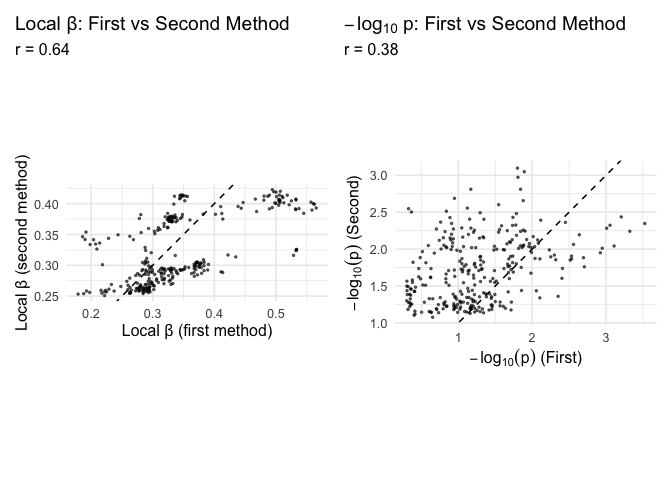
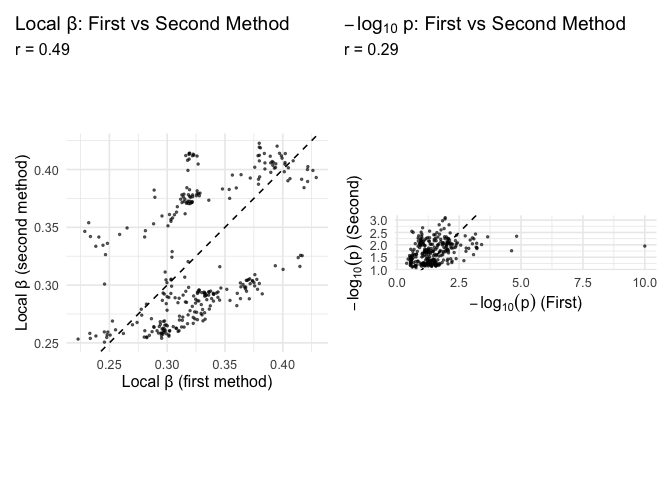
Publication update

diff --git a/README.md b/README.md
@@ -30,6 +30,10 @@ Delauney network. 2. Horseshoe models now support general networks as
 well, please click the “README.md” file to view the documentation
 properly.**
 
+**Apr 5, 2026 update: 1. The paper has been published two months back in
+the journal GigaScience. Feel free to open an issue if you face any
+difficulty with using the software.**
+
 ## Install and load SpaceBF
 
 We install and load the developmental version of SpaceBF from GitHub. We
@@ -170,11 +174,11 @@ MM <- SpaceBF(y1, y2, X = NULL, G = mst.adjmat, which.model = "NB", nIter = 5000
 
 print(str(MM)) # check the returned list object
 # List of 5
-#  $ Beta    : num [1:2500, 1:586] -1.94 -1.75 -1.87 -1.57 -1.87 ...
-#  $ R       : num [1:2500, 1] 9.29 8.81 8.58 8.97 9.16 ...
-#  $ Lambda  : num [1:2500, 1:584] 0.0223 0.0159 0.3278 0.6954 0.7098 ...
-#  $ Tau     : num [1:2500, 1:2] 0.00354 0.00393 0.00339 0.00272 0.00234 ...
-#  $ Deviance: num [1:2500, 1] 1181 1183 1167 1167 1190 ...
+#  $ Beta    : num [1:2500, 1:586] -1.15 -1.08 -1.31 -1.17 -1.41 ...
+#  $ R       : num [1:2500, 1] 7.87 8.09 8.02 7.52 7.24 ...
+#  $ Lambda  : num [1:2500, 1:584] 104.646 4.076 1.538 1.699 0.785 ...
+#  $ Tau     : num [1:2500, 1:2] 0.000723 0.000732 0.000663 0.000808 0.000708 ...
+#  $ Deviance: num [1:2500, 1] 1193 1192 1196 1195 1195 ...
 # NULL
 ```
 
@@ -210,17 +214,17 @@ similar format.
 G_results <- global_res(MM$Beta[, -c(1:N)], summary = "median", local.p.ths = 0.9)
 print(G_results)  # test should be significant if nu is highly +ve or -ve
 #      global.beta  global.pval num.nonzero.local Geweke.global.beta
-# var1   0.3274669 3.509168e-06               202          0.8682875
+# var1   0.3236056 1.449761e-06               233           1.884637
 
 
 L_results <- local_res(MM$Beta[, -c(1:N)])
 print(L_results[1:5, ]) # printing the estimates and p-values for the first 5 locations
 #   local.beta local.pval Geweke.local.beta
-# 1  0.3299877 0.09477831         0.8919659
-# 2  0.3308921 0.08195055         0.8644156
-# 3  0.3299198 0.07670019         0.7966709
-# 4  0.3306464 0.11496412         0.6486339
-# 5  0.2995344 0.09324329         3.2589386
+# 1  0.3327926 0.08092767          2.693710
+# 2  0.3324412 0.06812697          2.217974
+# 3  0.3324183 0.05537753          2.238704
+# 4  0.3299426 0.08164987          1.464207
+# 5  0.3032085 0.05981317          1.203164
 ```
 
 ## Visualize the estimated slope surface along with the expression profiles
@@ -330,6 +334,7 @@ estimates and p-values.
 L_results_ICAR <- local_res(MM_ICAR$Beta[, -c(1:N)])
 
 plot_local_comparisons(L_results, L_results_ICAR)
+# Warning: package 'ggplot2' was built under R version 4.4.3
 ```
 
 <img src="README_files/figure-gfm/compare HS vs. ICAR-1.png" width="60%" />
@@ -380,9 +385,9 @@ plot_local_comparisons(L_results_ICAR, L_results_HS_kNN)
 
 ## References
 
-1\) Seal, S., & Neelon, B. (2025). SpaceBF: Spatial coexpression
+1\) Seal, S., & Neelon, B. (2026). SpaceBF: Spatial coexpression
 analysis using Bayesian Fused approaches in spatial omics datasets.
-bioRxiv, 2025-03.
+GigaScience, giag006.
 
 2\) K. Thrane, H. Eriksson, J. Maaskola, J. Hansson, and J. Lundeberg
 (2018). Spatially resolved transcriptomics enables dissection of genetic
